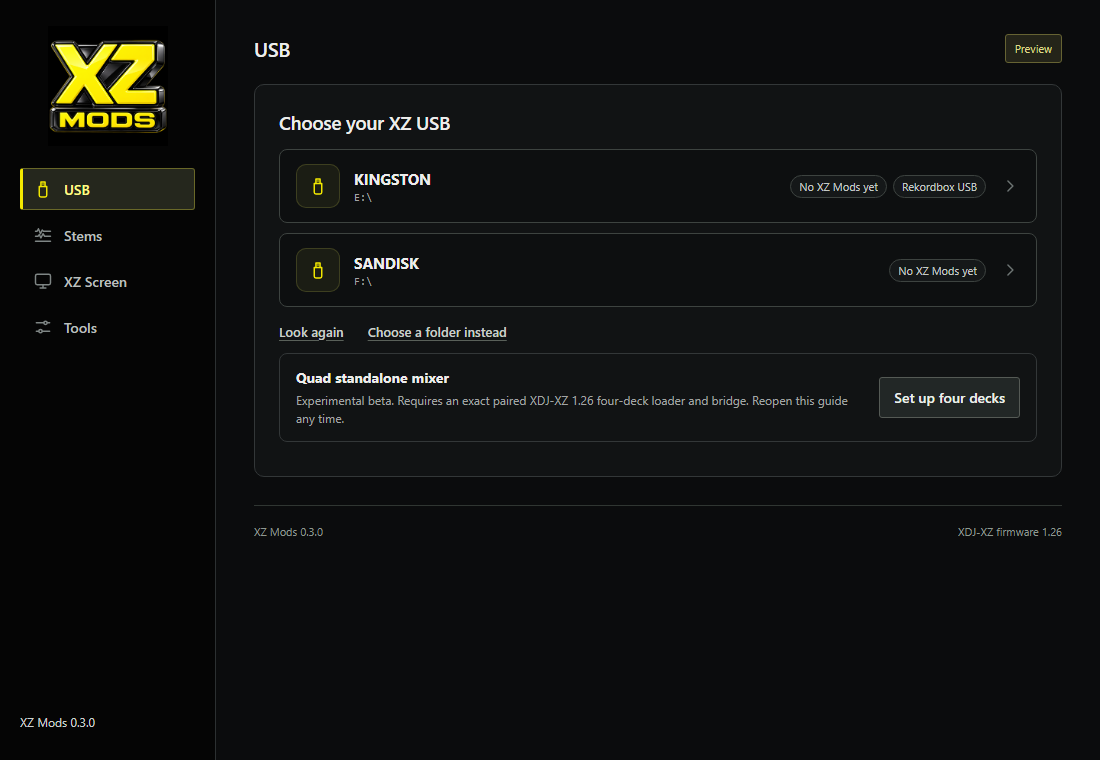
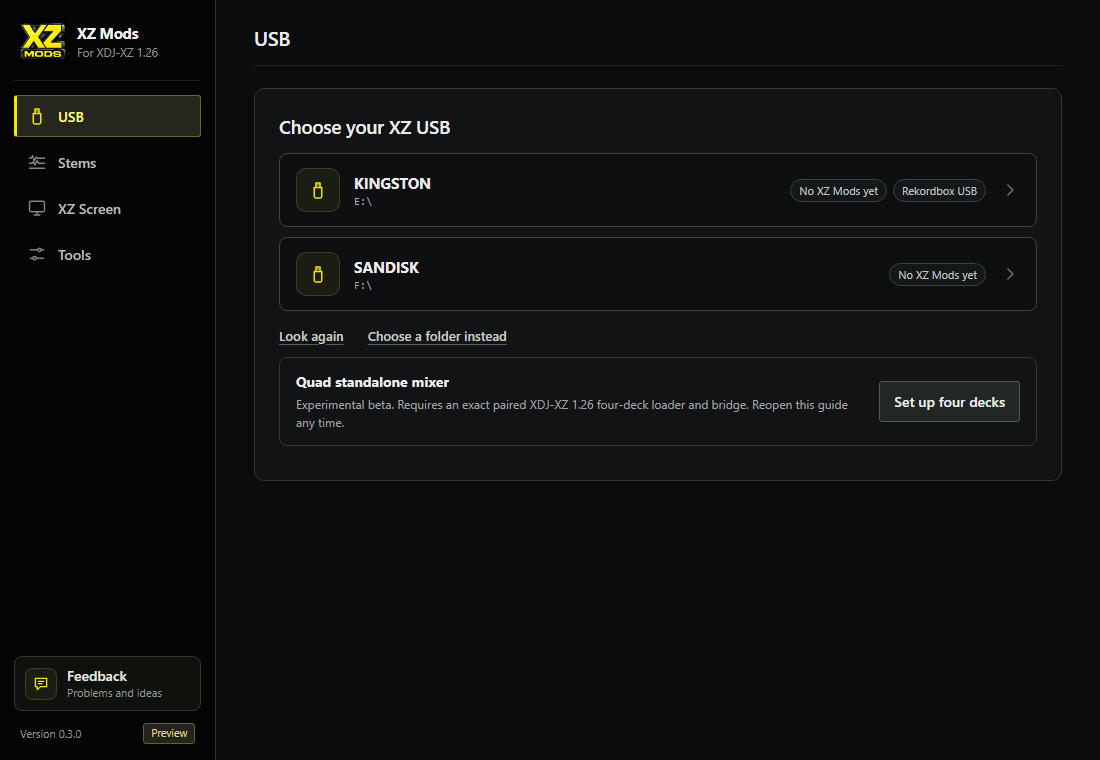
Manual: Feedback has its own section, Tools is grouped, the new rail
The desktop chapter gets a Feedback section with its own figure: Report a
problem, Request a feature, Ask a question, My reports and the maintainer
inbox. Around the app lists Feedback in the rail and says the firmware is
named at the top of the rail. Tools and About figures show the grouped tools
and About without the report panel. My reports is framed on the list, and
the status notice has its own figure. The From your XZ badge is on Feedback.
Troubleshooting points to Feedback.

Every app shot the verifiers can draw is redrawn with the new rail, and its
callouts moved by the measured shift of the page. Stems, DJ Profile, App
updates, Network updates, Repair library and the Live Streamer setup still
show the previous rail. ui/style.css and ui/support.css are now watched.
Not accepted: proof sheets need review first.

diff --git a/manual/chapters/desktop-app.md b/manual/chapters/desktop-app.md
@@ -3,22 +3,23 @@ interface: computer
 settings:
 ---
 
-The XZ Mods app runs on your computer. It puts XZ Mods on a USB, makes stems for your tracks, shows the XZ screen live and holds a few tools for your profile, your library and updates. It never formats a drive and never changes your music or your Rekordbox export.
+The XZ Mods app runs on your computer. It puts XZ Mods on a USB, makes stems for your tracks, shows the XZ screen live, holds tools for your profile, your library and updates, and sends your reports and ideas to the maintainer. It never formats a drive and never changes your music or your Rekordbox export.
 
 You need 64-bit Windows with WebView2, or a Mac with macOS 14 or later. Making stems needs a Windows computer or an Apple silicon Mac. On an Intel Mac you can still import stems you made elsewhere.
 
 ## Around the app
 
-The rail on the left has four sections. The current one is outlined in yellow.
+The rail on the left has four sections for your work and, at its foot, Feedback. The current one is outlined in yellow.
 
 | Section | What it is for |
 |---|---|
 | **USB** | Install or update XZ Mods on a USB, add your DJ profile and games |
 | **Stems** | Make stems for the tracks on a Rekordbox USB, or import stems you already have |
 | **XZ Screen** | Watch the XZ screen on this computer and add it to OBS |
-| **Tools** | DJ Profile, Repair library, Network updates, XZ Mods version, App updates and About |
+| **Tools** | DJ Profile, Repair library, XZ Mods version, Network updates, App updates and About |
+| **Feedback** | Report a problem, request a feature or ask a question, and follow what you sent |
 
-The app version is at the bottom of the rail. The footer names the player firmware the app prepares USBs for, XDJ-XZ firmware 1.26.
+The top of the rail names the player firmware the app prepares USBs for, XDJ-XZ 1.26. The app version is at the bottom.
 
 ## USB
 
@@ -37,18 +38,19 @@ Once a USB is open, the page shows one status and one action for it.
 
 ```figure app:usb-install XZ Mods app · USB
 A fresh USB. XZ Mods is not on it yet, so the one action is Install XZ Mods.
-1 @ 145,236 Sections | USB, Stems, XZ Screen and Tools.
-2 @ 492,117 USB | The USB's name and drive.
-3 @ 662,158 Free space | The file system, the free space and a bar of how full the USB is.
-4 @ 988,96 Change USB | Goes back to the list of USBs.
-5 @ 606,224 Status | What XZ Mods found on this USB.
-6 @ 494,320 Action | The one thing to do next. Here it installs XZ Mods.
-7 @ 364,438 DJ profile | The active profile on the USB. Add or Edit opens the profile step.
-8 @ 604,438 Games | How many games are on the USB. Choose opens the games list.
-9 @ 870,438 Stems | How many tracks have stems. Prepare opens the Stems section.
-10 @ 430,537 Build | The XZ Mods build that goes on the USB. Change opens XZ Mods version.
-11 @ 1064,594 Set up four decks | The cable guide for four decks. It installs nothing.
-12 @ 464,665 Show every file | A read-only list of what XZ Mods keeps on this USB.
+1 @ 150,186 Sections | USB, Stems, XZ Screen and Tools.
+2 @ 492,121 USB | The USB's name and drive.
+3 @ 662,162 Free space | The file system, the free space and a bar of how full the USB is.
+4 @ 988,100 Change USB | Goes back to the list of USBs.
+5 @ 606,228 Status | What XZ Mods found on this USB.
+6 @ 494,324 Action | The one thing to do next. Here it installs XZ Mods.
+7 @ 364,442 DJ profile | The active profile on the USB. Add or Edit opens the profile step.
+8 @ 604,442 Games | How many games are on the USB. Choose opens the games list.
+9 @ 870,442 Stems | How many tracks have stems. Prepare opens the Stems section.
+10 @ 430,541 Build | The XZ Mods build that goes on the USB. Change opens XZ Mods version.
+11 @ 1064,598 Set up four decks | The cable guide for four decks. It installs nothing.
+12 @ 464,669 Show every file | A read-only list of what XZ Mods keeps on this USB.
+13 @ 152,676 Feedback | Reports and ideas for the maintainer. See [Feedback](desktop-app#feedback).
 ```
 
 The status changes with what the app finds:
@@ -97,15 +99,15 @@ Choose the screen the XZ shows. The selected card plays a short clip of it.
 
 ```figure app:install-review XZ Mods app · Install XZ Mods
 Ready to write, with Change games open.
-1 @ 580,223 Loader | Adds the XZ Mods loader, or backs up and updates it.
-2 @ 706,269 Games | The free games that will be copied.
-3 @ 540,315 Interface | The screen the XZ starts with.
-4 @ 478,380 Settings file | A USB without settings gets a new settings file.
-5 @ 368,428 Change games | Opens or hides the games list.
-6 @ 1040,497 Add all free games | Ticks every download. None unticks the ones not on the USB yet.
-7 @ 638,550 Game state | WILL ADD, NOT ON USB, or already on the USB.
-8 @ 890,551 Add | Ticks one game. The size is what it adds to the USB.
-9 @ 632,733 Your files | Music, playlists and prepared stems are never touched.
+1 @ 580,227 Loader | Adds the XZ Mods loader, or backs up and updates it.
+2 @ 706,273 Games | The free games that will be copied.
+3 @ 540,319 Interface | The screen the XZ starts with.
+4 @ 478,384 Settings file | A USB without settings gets a new settings file.
+5 @ 368,432 Change games | Opens or hides the games list.
+6 @ 1040,501 Add all free games | Ticks every download. None unticks the ones not on the USB yet.
+7 @ 638,554 Game state | WILL ADD, NOT ON USB, or already on the USB.
+8 @ 890,555 Add | Ticks one game. The size is what it adds to the USB.
+9 @ 632,737 Your files | Music, playlists and prepared stems are never touched.
 ```
 
 Beat Arcade, Wave Rider, Rhythm Lab and Static Surfer are built into the loader and always come with it. Doom shareware, Chex Quest and Freedoom Phase 2 are free downloads that the app checks and copies to `VJTOOLS\Games` on the USB. A fresh USB gets every free game unless you untick it. An update keeps the games the USB already has and adds none on its own. Under the checklist, **Eject the USB when writing finishes** ejects it for you so you can take it straight to the XZ.
@@ -227,11 +229,11 @@ XZ Screen shows the XDJ-XZ screen on this computer over the network, so you can 
 
 ```figure app:xz-screen XZ Mods app · XZ Screen
 Before the first connection.
-1 @ 356,170 Set up Live Streamer | Opens the three-step connection guide.
-2 @ 668,199 Stop stream and Fullscreen | Work once the XZ is connected.
-3 @ 362,240 Stream color | 8-bit with 256 colors, or 16-bit with the original colors. A change applies when you reconnect.
-4 @ 560,343 Status | What the connection is doing, and the frame rate it measures.
-5 @ 735,581 Screen | The XZ screen at 800 × 480 once it is connected.
+1 @ 356,174 Set up Live Streamer | Opens the three-step connection guide.
+2 @ 668,203 Stop stream and Fullscreen | Work once the XZ is connected.
+3 @ 362,244 Stream color | 8-bit with 256 colors, or 16-bit with the original colors. A change applies when you reconnect.
+4 @ 560,347 Status | What the connection is doing, and the frame rate it measures.
+5 @ 735,585 Screen | The XZ screen at 800 × 480 once it is connected.
 ```
 
 ```figure app:xz-screen-setup XZ Mods app · Set up Live Streamer
@@ -257,18 +259,17 @@ With an older USB loader the picture updates about once a second and the status 
 
 ## Tools
 
-Tools holds everything you need less often. **Tools** in the top left of each tool goes back to this list.
+Tools holds everything you need less often, grouped by what it works on: your USB, your XZ and this app. **Tools** in the top left of each tool goes back to this list.
 
 ```figure app:tools XZ Mods app · Tools
-Every tool.
-1 @ 405,110 DJ Profile | Your name and logo on the XZ, and the profile track.
-2 @ 431,181 Repair library | Fixes a Rekordbox USB the XZ cannot read.
-3 @ 456,252 Network updates | Sends the newest XZ Mods to XZs on your network.
-4 @ 453,324 XZ Mods version | Picks which build goes on your USB, or imports one.
-5 @ 424,395 App updates | Checks for a newer app.
-6 @ 572,466 Report a problem or share an idea | Sends a private report or an idea to the maintainer.
-7 @ 413,537 My reports | What you sent and where each report is now.
-8 @ 380,608 About | The version, open-source licenses and reports.
+Every tool, in three groups.
+1 @ 405,138 DJ Profile | Your name and logo on the XZ, and the profile track.
+2 @ 840,138 Repair library | Fixes a Rekordbox USB the XZ cannot read.
+3 @ 453,240 XZ Mods version | Picks which build goes on your USB, or imports one.
+4 @ 456,380 Network updates | Sends the newest XZ Mods to XZs on your network.
+5 @ 424,518 App updates | Checks for a newer app.
+6 @ 789,518 About | The version and open-source licenses.
+7 @ 150,655 Feedback | Reports and ideas are not in Tools. They have their own section at the foot of the rail.
 ```
 
 ### DJ Profile
@@ -353,14 +354,14 @@ XZ Mods version chooses which build goes on your USB the next time you install o
 
 ```figure app:mod-version XZ Mods app · XZ Mods version
 The saved build choice.
-1 @ 885,121 Verified | Says whether the build was checked on a real XDJ-XZ.
-2 @ 430,221 Saved choice | The build your next install or update uses.
-3 @ 645,257 Details | Its channel, whether it stays on the USB and where it came from.
-4 @ 852,361 Change mod version | Every build on this computer.
-5 @ 490,405 Keep this version on the USB | A loader built with this on skips network updates, so the USB stays on this build.
-6 @ 527,469 Save choice and Import a build | Saves the choice, or adds a build from a folder.
-7 @ 432,556 Set up four decks | Chooses the included four-deck build.
-8 @ 465,749 Choose USB to update | Restores or updates a loader by hand.
+1 @ 885,128 Verified | Says whether the build was checked on a real XDJ-XZ.
+2 @ 430,228 Saved choice | The build your next install or update uses.
+3 @ 645,264 Details | Its channel, whether it stays on the USB and where it came from.
+4 @ 852,368 Change mod version | Every build on this computer.
+5 @ 490,412 Keep this version on the USB | A loader built with this on skips network updates, so the USB stays on this build.
+6 @ 527,476 Save choice and Import a build | Saves the choice, or adds a build from a folder.
+7 @ 432,563 Set up four decks | Chooses the included four-deck build.
+8 @ 465,756 Choose USB to update | Restores or updates a loader by hand.
 ```
 
 Lower on the page:
@@ -388,20 +389,33 @@ On Windows the app checks for updates by itself at launch and shows **Review upd
 
 ### About
 
-About shows the app version and the open-source licenses. **Reports and ideas** at the top opens the report window and My reports.
+About shows the app version and the open-source licenses.
 
 ```figure app:about XZ Mods app · About
 About.
-1 @ 400,250 Report a problem or share an idea | Opens the report window. Tools has the same entry.
-2 @ 583,250 My reports | What you sent and where each report is now.
-3 @ 712,250 Maintainer inbox | For the maintainer only.
-4 @ 516,462 App updates and release notes | Opens App updates.
-5 @ 451,633 Open license notices | Every open-source project XZ Mods uses and its license.
+1 @ 518,276 App updates and release notes | Opens App updates.
+2 @ 453,447 Open license notices | Every open-source project XZ Mods uses and its license.
 ```
+
+## Feedback
+
+Feedback is where you tell the maintainer about a problem, ask for a feature or ask a question, and follow what you sent. It sits at the foot of the rail on every page.
+
+```figure app:feedback XZ Mods app · Feedback
+The Feedback section.
+1 @ 150,655 Feedback | Opens this section from any page. A count on it shows reports from your XZ that wait for your words.
+2 @ 462,212 Report a problem | Opens the report window at its first question.
+3 @ 721,212 Request a feature | Opens the report window at the kind of idea.
+4 @ 963,212 Ask a question | Goes straight to the box. Answers from this manual appear as you type.
+5 @ 350,322 My reports | What you sent from this computer and where each report is now.
+6 @ 466,680 Maintainer inbox | For the maintainer only.
+```
+
+Reports from your XZ that wait for your words appear above My reports, under **From your XZ**. The sticks that may send them are listed under **Your XZ sticks**.
 
 ### Report a problem or share an idea
 
-Report a problem or share an idea sends a private report to the maintainer: a problem, something that got worse, an idea or a question. Open it from **Tools** or **About**. The only thing you have to fill in is one box. Nothing is posted publicly.
+The report window sends a private report to the maintainer: a problem, something that got worse, an idea or a question. **Report a problem** in Feedback opens it at the first question. **Request a feature** and **Ask a question** answer that question for you. The only thing you have to fill in is one box. Nothing is posted publicly.
 
 ```figure app:report-topic XZ Mods app · Report a problem or share an idea
 The first question.
@@ -490,17 +504,23 @@ The setup after a send that was not confirmed.
 
 ### My reports
 
-My reports lists every report and idea sent from this computer, with its kind and where it is now, in plain words. Open it from **Tools** or **About**.
+My reports lists every report and idea sent from this computer, with its kind and where it is now, in plain words. It is the list under the buttons in Feedback.
 
 ```figure app:my-reports XZ Mods app · My reports
 Four reports, one with news.
-1 @ 611,118 Notice | Appears at the top of the app when a report's status changes. View opens that report.
-2 @ 345,293 Kind | Such as Problem, Got worse, Works differently, Idea or Question.
-3 @ 666,280 Your words | The start of what you wrote. It stays on this computer.
-4 @ 586,550 Status | Where the report is now. New marks a change you have not opened yet.
-5 @ 893,280 Reference and date | Your report reference and the day you sent it. Part of XZ-1042 appears when the maintainer assigns an item.
-6 @ 740,226 Check now | Checks every report at once, and asks for new reports from your XZ.
-7 @ 923,226 Report a problem or share an idea | Starts a new report.
+1 @ 338,258 Kind | Such as Problem, Got worse, Works differently, Idea or Question.
+2 @ 668,245 Your words | The start of what you wrote. It stays on this computer.
+3 @ 586,515 Status | Where the report is now. New marks a change you have not opened yet.
+4 @ 893,256 Reference and date | Your report reference and the day you sent it. Part of XZ-1042 appears when the maintainer assigns an item.
+5 @ 930,155 Check now | Checks every report at once, and asks for new reports from your XZ.
+```
+
+When a report's status changes, a notice appears at the top of whichever page is open.
+
+```figure app:report-notice XZ Mods app · App updates
+A status change, shown while App updates is open.
+1 @ 248,125 Notice | Appears when the status of one of your reports changes.
+2 @ 613,125 View | Opens that report.
 ```
 
 The app checks for news when it starts, after it checks for app updates, and when you open My reports, at most every 15 minutes for each report. **Check now** checks at once. If you are offline, the last known status stays.
@@ -528,20 +548,20 @@ Details are deleted 14 days after you send them. Tracking lasts while a report i
 
 ### From your XZ
 
-A report sent from the XZ waits in My reports for your words. **From your XZ** appears at the top of My reports while one waits. The XZ notes the screen you were on as names only. It keeps no picture and no text from the screen.
+A report sent from the XZ waits in Feedback for your words. **From your XZ** appears above My reports while one waits. The XZ notes the screen you were on as names only. It keeps no picture and no text from the screen.
 
 ```figure app:xz-report XZ Mods app · My reports
 A report from the XZ, waiting for your words.
-1 @ 556,113 From your XZ | Reports from your XZ that wait for your words.
-2 @ 676,183 Reference and time | The report's reference and when the XZ sent it. It stays the same when you add your words.
-3 @ 662,233 Screen | The screen the XZ showed just before you reported, with any error code on it.
-4 @ 606,253 Stick | The stick the report came from, and when XZ Mods wrote it.
-5 @ 597,273 Typed on the XZ | What you typed on the XZ, if anything.
-6 @ 960,400 What happened? | Starts with what you typed on the XZ. Change it or add to it.
-7 @ 436,481 Collected details | What the XZ collected and sent with the report. Show displays each part exactly.
-8 @ 392,534 Stop reminding | Ends the reminders for this report. It stays in the list.
-9 @ 830,568 Send without comments | Finishes the report without words from you.
-10 @ 972,568 Send | Adds your words to the same report.
+1 @ 556,48 From your XZ | Reports from your XZ that wait for your words.
+2 @ 676,118 Reference and time | The report's reference and when the XZ sent it. It stays the same when you add your words.
+3 @ 662,168 Screen | The screen the XZ showed just before you reported, with any error code on it.
+4 @ 606,188 Stick | The stick the report came from, and when XZ Mods wrote it.
+5 @ 597,208 Typed on the XZ | What you typed on the XZ, if anything.
+6 @ 960,335 What happened? | Starts with what you typed on the XZ. Change it or add to it.
+7 @ 436,416 Collected details | What the XZ collected and sent with the report. Show displays each part exactly.
+8 @ 392,469 Stop reminding | Ends the reminders for this report. It stays in the list.
+9 @ 830,503 Send without comments | Finishes the report without words from you.
+10 @ 972,503 Send | Adds your words to the same report.
 ```
 
 - **Send** adds your words to the same report, under the same reference. The report then moves to your sent reports, where you follow it like any other.
@@ -553,31 +573,31 @@ A report from the XZ, waiting for your words.
 The app tells you when a report from the XZ waits:
 
 - While the app is open, a new report brings a Windows notification, such as "Your XZ sent a report, R-4F7K-2M9Q. Add what happened?" Click it to open that report.
-- **Tools** and **My reports** show how many reports wait.
+- **Feedback** in the rail shows how many reports wait.
 - When the app starts with reports waiting, a callout under the page title names them.
 
 ```figure app:xz-callout XZ Mods app · From your XZ
 The callout when the app starts with a report waiting.
-1 @ 472,146 Callout | Names the report your XZ sent. It never covers the window or takes the keyboard.
-2 @ 762,146 Add what happened | Opens the report in My reports with its box ready.
-3 @ 889,135 Remind me later | Hides the callout until the app starts again.
-4 @ 990,135 Stop reminding | Ends the reminders for these reports. They stay in My reports.
-5 @ 196,328 Badge | How many reports from your XZ wait for your words.
+1 @ 472,150 Callout | Names the report your XZ sent. It never covers the window or takes the keyboard.
+2 @ 762,150 Add what happened | Opens the report in Feedback with its box ready.
+3 @ 889,139 Remind me later | Hides the callout until the app starts again.
+4 @ 990,139 Stop reminding | Ends the reminders for these reports. They stay in Feedback.
+5 @ 240,636 Badge | How many reports from your XZ wait for your words.
 ```
 
 Reminders end when you choose **Stop reminding**, or 7 days after a report arrives. Each report brings one notification at most. If Windows notifications are off for XZ Mods, or your copy of the app is not installed, the badge and the callout tell you instead.
 
 ### Your XZ sticks
 
-Every stick XZ Mods writes gets a loader ID, such as **L-7K2M-9Q4F**. It lets the XZ send reports from that stick to this computer, and to nothing else. **Your XZ sticks** at the bottom of My reports lists them.
+Every stick XZ Mods writes gets a loader ID, such as **L-7K2M-9Q4F**. It lets the XZ send reports from that stick to this computer, and to nothing else. **Your XZ sticks**, near the bottom of Feedback, lists them.
 
 ```figure app:xz-sticks XZ Mods app · My reports
 Three sticks: one waiting to register, one ready and one revoked.
-1 @ 373,396 Your XZ sticks | The sticks XZ Mods wrote on this computer.
-2 @ 422,464 Loader ID | Reports from this stick carry it.
-3 @ 433,487 Written | When XZ Mods last wrote the stick.
-4 @ 893,495 State | Can send reports, Registers when online, Plug it in to finish, Revokes when online or Revoked.
-5 @ 997,573 Revoke | Stops this stick sending reports. The app asks first.
+1 @ 373,418 Your XZ sticks | The sticks XZ Mods wrote on this computer.
+2 @ 422,486 Loader ID | Reports from this stick carry it.
+3 @ 433,509 Written | When XZ Mods last wrote the stick.
+4 @ 893,517 State | Can send reports, Registers when online, Plug it in to finish, Revokes when online or Revoked.
+5 @ 997,595 Revoke | Stops this stick sending reports. The app asks first.
 ```
 
 - Revoke a stick you lost or gave away. The XZ can no longer send reports from it. If you are offline, the stick is revoked on this computer at once and the report service hears of it later.
@@ -587,7 +607,7 @@ Three sticks: one waiting to register, one ready and one revoked.
 
 ### Maintainer inbox
 
-**Maintainer inbox** in About is for the maintainer. Connect it with the report-only owner key. The short setup checks that key by reading the inbox.
+**Maintainer inbox**, at the bottom of Feedback, is for the maintainer. Connect it with the report-only owner key. The short setup checks that key by reading the inbox.
 
 Enter a report reference or item number in the search box and choose **Find**. You can type either case, with or without spaces and dashes. For a report reference, I or L also means 1, and O means 0. A report reference finds one report; an item number finds the reports assigned to that item. **Clear** returns to the inbox.
 

diff --git a/manual/chapters/troubleshooting.md b/manual/chapters/troubleshooting.md
@@ -192,7 +192,7 @@ Every page of the app is in [The XZ Mods app](desktop-app).
 When something goes wrong, send a report. It helps fix the problem for everyone.
 
 - **On the player.** Open MODS › **EXTRAS** › **REPORT AN ISSUE**. The player builds a cleaned-up report, shows you what it holds, and sends it or saves it to the USB. See [Report an issue](extras#report-an-issue).
-- **On your computer.** In the XZ Mods app, open **Tools** › **Report a problem or share an idea**. Only one box is required, and **My reports** shows where your report is afterwards. See [Report a problem or share an idea](desktop-app#report-a-problem-or-share-an-idea).
+- **On your computer.** In the XZ Mods app, open **Feedback** at the foot of the rail and choose **Report a problem**. Only one box is required, and **My reports** in Feedback shows where your report is afterwards. See [Report a problem or share an idea](desktop-app#report-a-problem-or-share-an-idea).
 - **On GitHub.** Open an issue at https://github.com/OpticMystic/XZ-Mods/issues.
 
 Say what you did, what you expected and what happened. The app adds the cleaned-up details itself, and you can see and untick each one. Nothing is sent until you press **Send privately**, and the app posts nothing publicly. From the player, the public GitHub issue is a separate step you submit yourself.

diff --git a/manual/chapters/getting-started.md b/manual/chapters/getting-started.md
@@ -47,10 +47,10 @@ You prepare the USB in the XZ Mods app on your computer. It does not format the 
 
 ```figure app:install-review XZ Mods app · Install XZ Mods
 The checklist before the write. Music, playlists and prepared stems are never touched.
-1 @ 580,223 Loader | XZ Mods itself.
-2 @ 706,269 Games | Free games the app downloads and checks.
-3 @ 540,315 Interface | The screen the XZ starts with.
-4 @ 632,733 Your files | What the write never changes.
+1 @ 580,227 Loader | XZ Mods itself.
+2 @ 706,273 Games | Free games the app downloads and checks.
+3 @ 540,319 Interface | The screen the XZ starts with.
+4 @ 632,737 Your files | What the write never changes.
 ```
 
 Every step of the app is in [The XZ Mods app](desktop-app#usb). To add stems to your tracks, see [Stems](stems).
